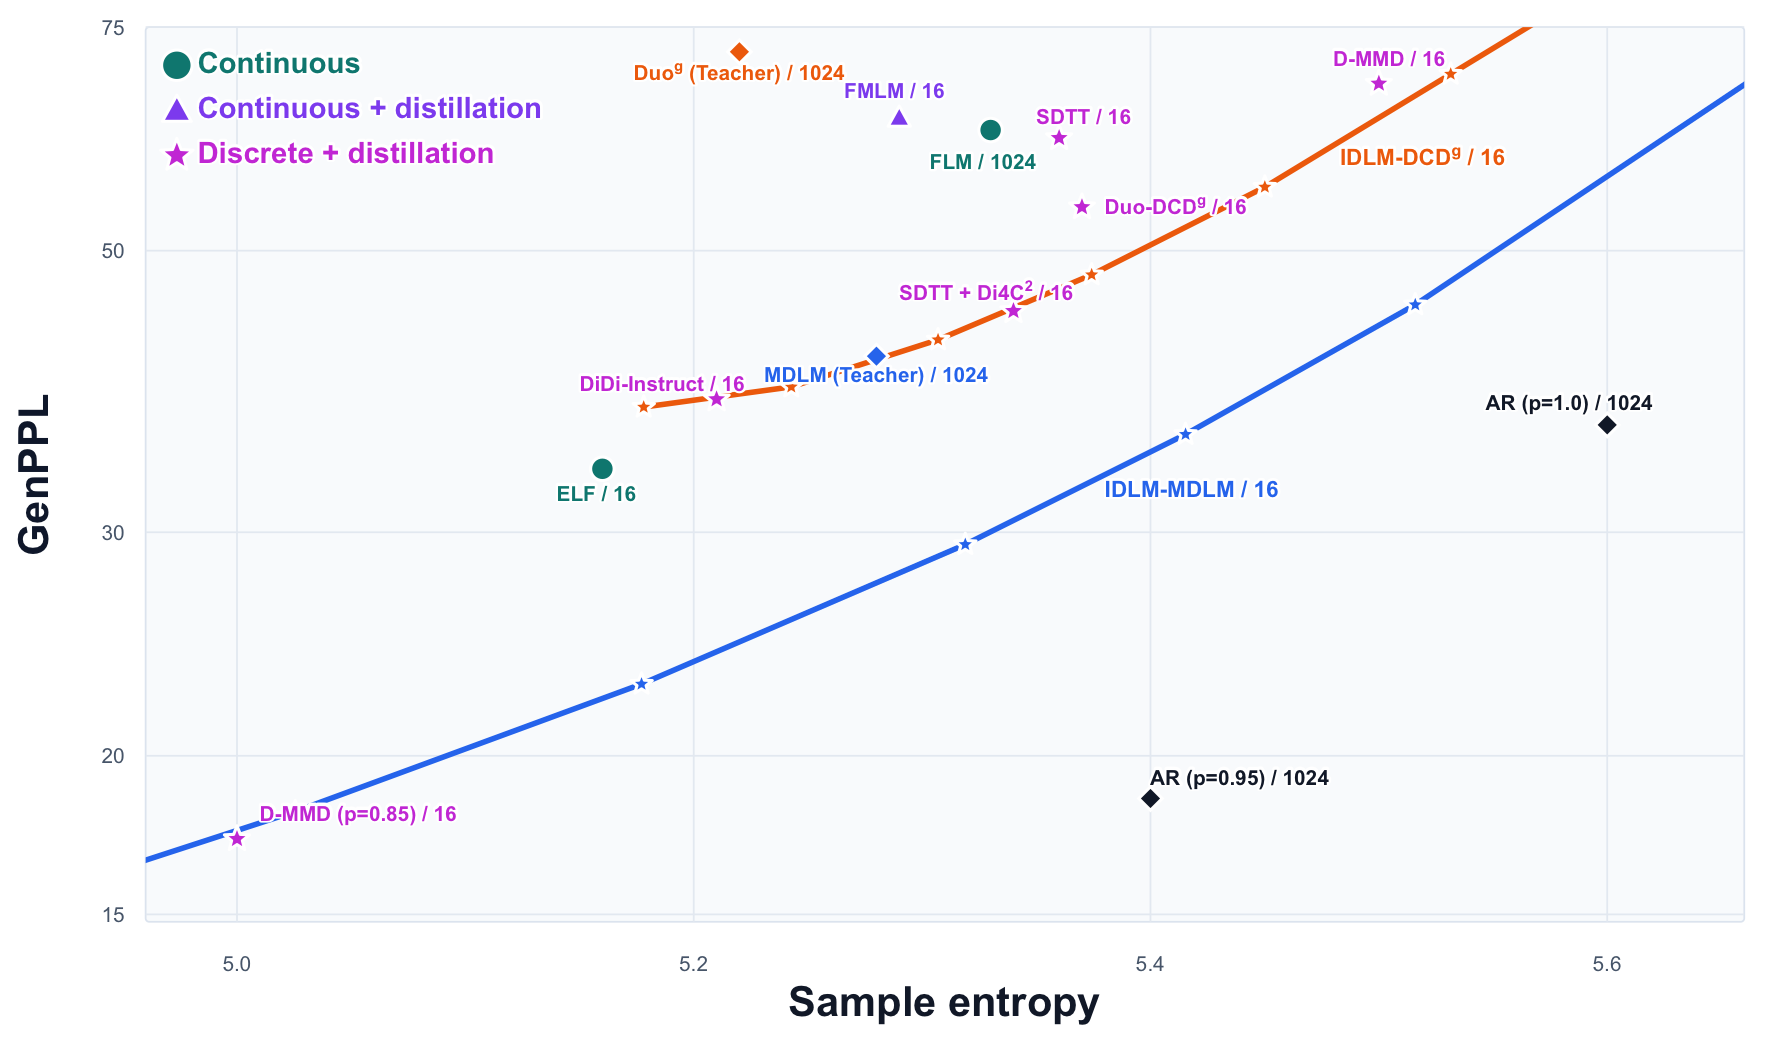
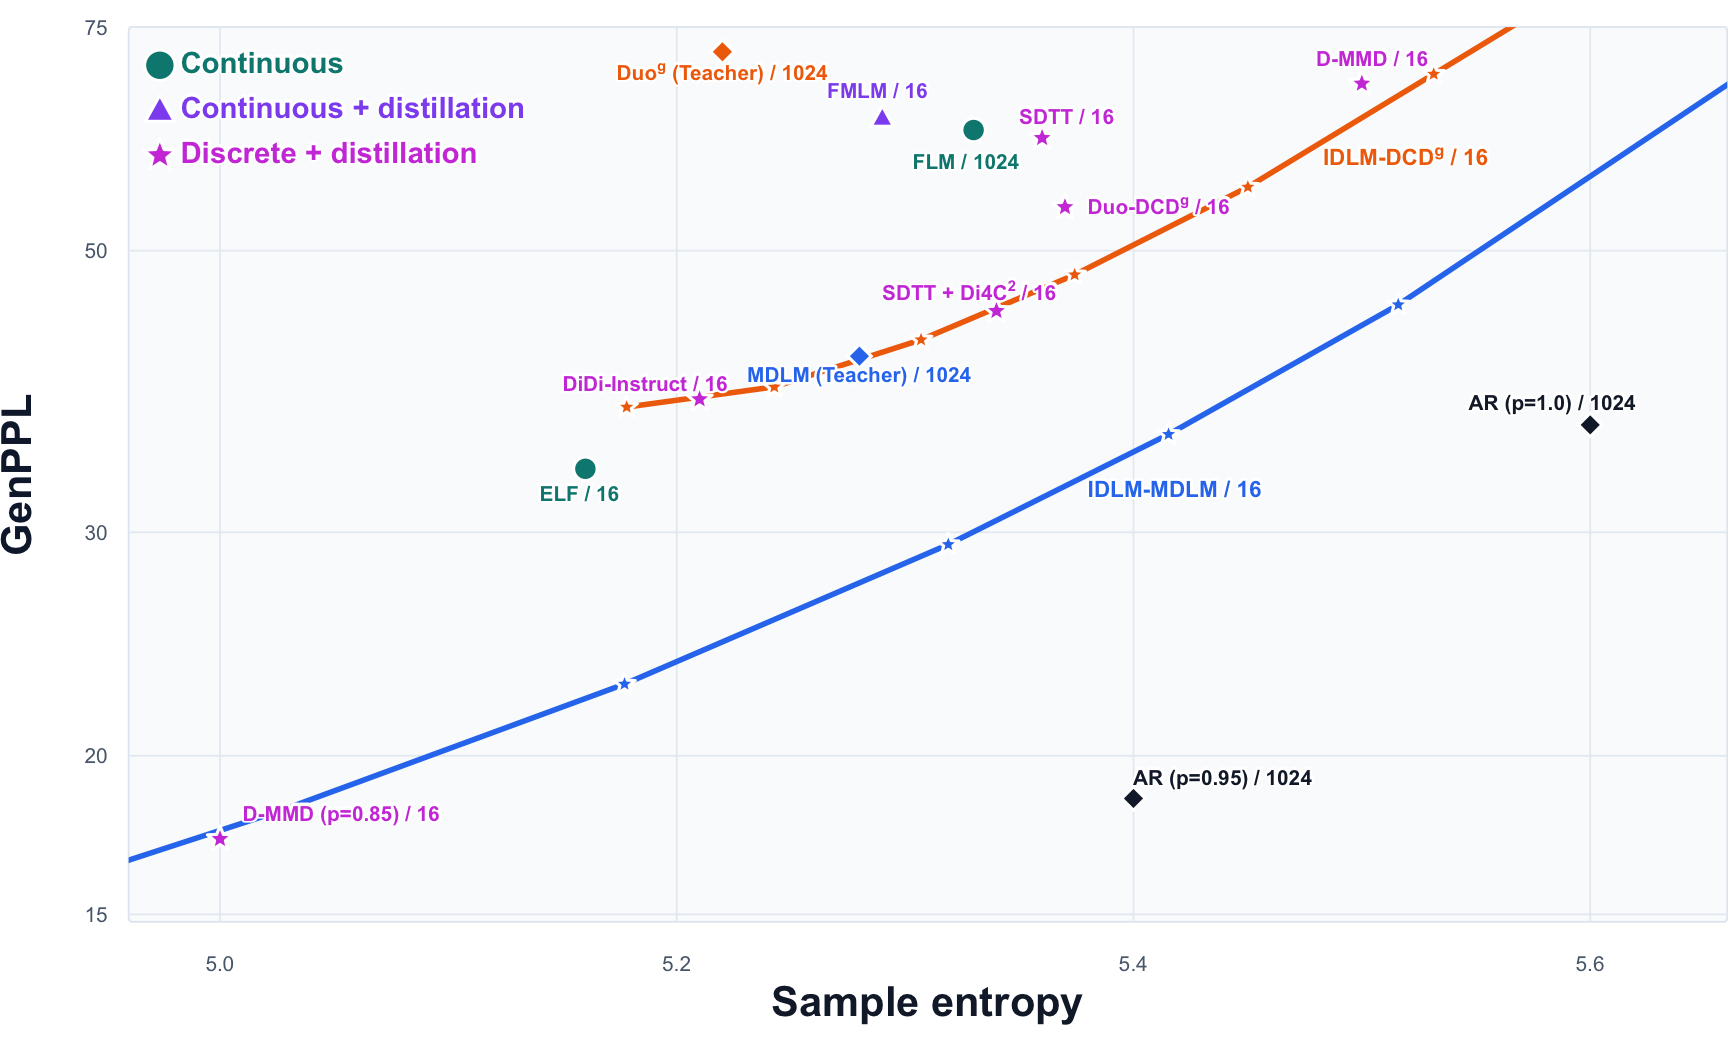
Crop OpenWebText frontier plot

diff --git a/docs/blog/index.html b/docs/blog/index.html
@@ -27,7 +27,7 @@
     };
   </script>
   <script defer src="https://cdn.jsdelivr.net/npm/mathjax@3/es5/tex-svg.js"></script>
-  <link rel="stylesheet" href="/Bio-page/static/homepage/concept.css?v=20260603-owt-frontier-fit">
+  <link rel="stylesheet" href="/Bio-page/static/homepage/concept.css?v=20260603-owt-frontier-crop">
 </head>
 <body>
   <main class="blog-shell">

diff --git a/homepage/templates/homepage/idlm_blog.html b/homepage/templates/homepage/idlm_blog.html
@@ -27,7 +27,7 @@
     };
   </script>
   <script defer src="https://cdn.jsdelivr.net/npm/mathjax@3/es5/tex-svg.js"></script>
-  <link rel="stylesheet" href="{% static 'homepage/concept.css' %}?v=20260603-owt-frontier-fit">
+  <link rel="stylesheet" href="{% static 'homepage/concept.css' %}?v=20260603-owt-frontier-crop">
 </head>
 <body>
   <main class="blog-shell">

diff --git a/docs/static/homepage/concept.css b/docs/static/homepage/concept.css
@@ -3584,9 +3584,9 @@ svg {
 
 .owt-frontier img {
   display: block;
-  height: auto;
-  max-height: none;
-  object-fit: initial;
+  height: auto !important;
+  max-height: none !important;
+  object-fit: fill !important;
 }
 
 .owt-chart {

diff --git a/homepage/static/homepage/concept.css b/homepage/static/homepage/concept.css
@@ -3584,9 +3584,9 @@ svg {
 
 .owt-frontier img {
   display: block;
-  height: auto;
-  max-height: none;
-  object-fit: initial;
+  height: auto !important;
+  max-height: none !important;
+  object-fit: fill !important;
 }
 
 .owt-chart {
